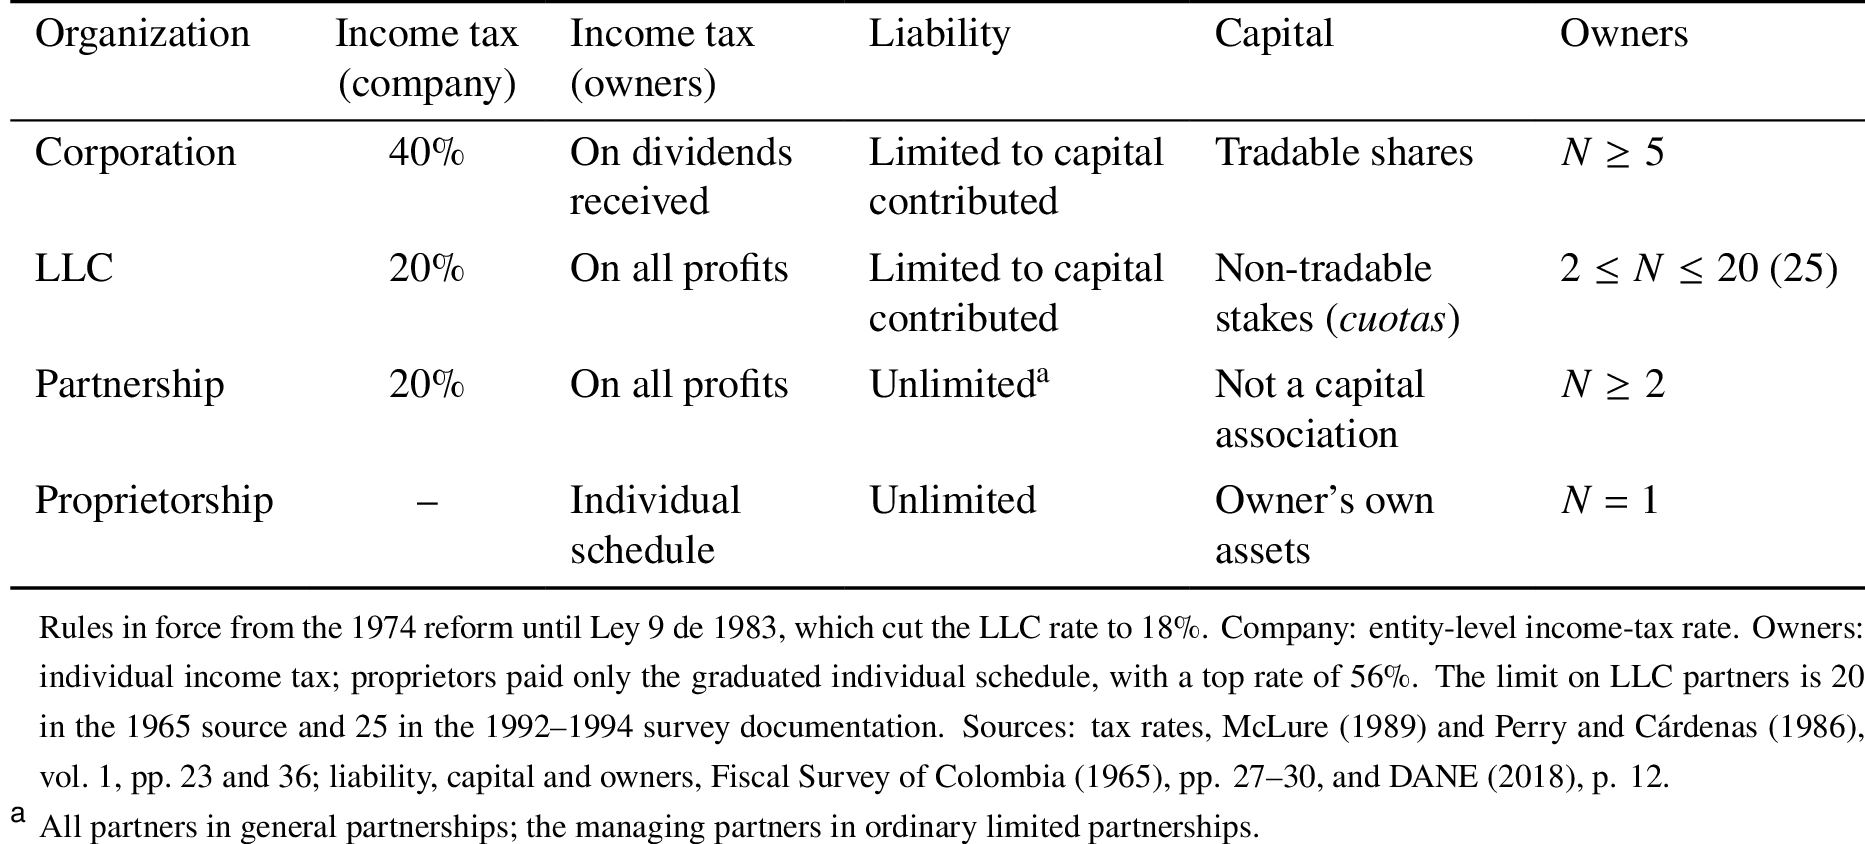
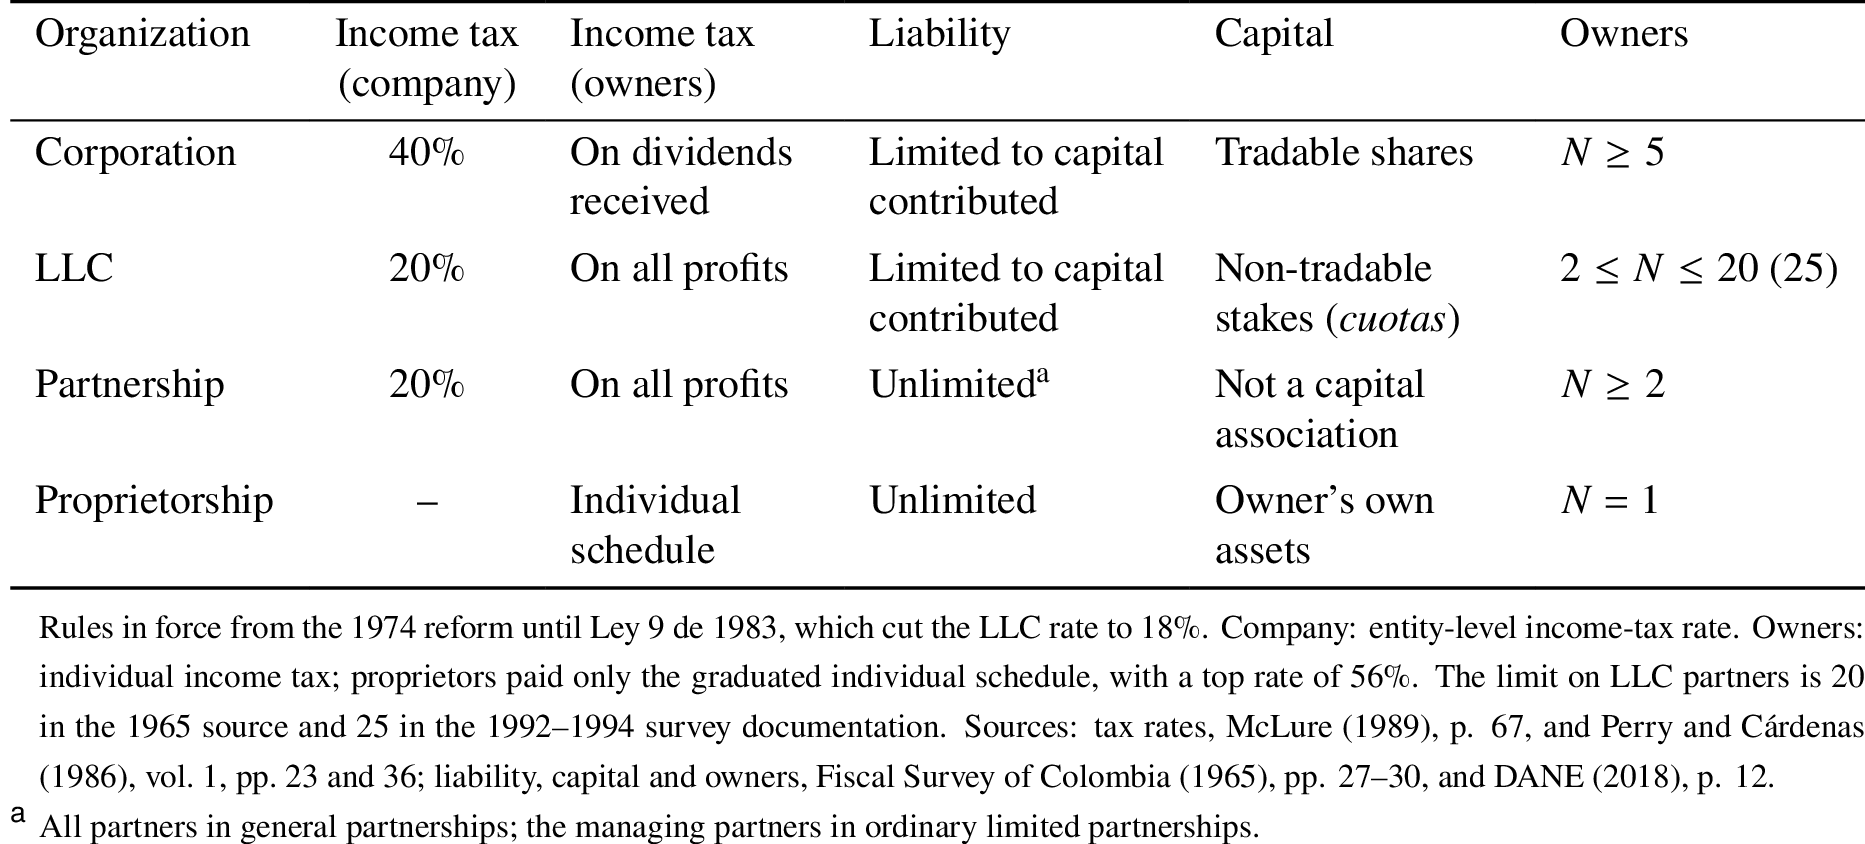
Ch. 3: McLure (1989) page cites (pp. 65, 67); ch. 4 note: 1983 reform ended the machinery/transport exemptions
Claude-Session: https://claude.ai/code/session_01J1kAGaZrPMkk8SfQCaxMNX

Changed region(s): [[0.0311, 0.8318, 1.0, 0.955]]

diff --git a/Research-log/log.md b/Research-log/log.md
@@ -1077,3 +1077,5 @@ Best points: ELVIS (cube, moment set A) $\lambda=5.427\times10^{-7},(\delta_0,\d
 Hans's observation: the two food industries (311, 312) are exempt from the sales tax, so the credit on purchases gives them no reward to overreport, and the test does not reject in either. The count is now reported as 9 of the 18 liable industries (all nine rejections are liable industries) and 0 of the 2 exempt ones, instead of 9 of 20. Framing agreed: "consistent with the incentive", not "the test works" — a non-rejection is inconclusive on its own, and the income tax still rewarded overreporting in exempt industries (ch. 7's $u^{IT}$; small post-reform rise there).
 
 Exempt set checked in the data (ch. 3 sample, `Code/Thesis/ch03-sample.R`): share of firm-years with zero sales tax on sales is 92.0 percent in 311 and 88.1 percent in 312 (median rate 0), but 3.3 percent in 382 and 6.2 percent in 384 (medians 9.1 and 9.4 percent). An older ch. 4 draft note listed 382 and 384 as exempt (from the 1974 zero-rating of agricultural machinery and transport equipment, Perry and Orozco de Triana 1990, p. 181); that covered products, not these industries. Exempt = 311, 312, matching ch. 7's `exempt_ind`. Updated: thesis and JMP abstracts, ch. 1 and JMP intro, ch. 4 draft notes, ch. 10 outline.
+
+Addendum (same day): McLure (1989, p. 65) — Hans checked the book — says the 1983 reform eliminated the exemptions for agricultural machinery, transportation equipment and certain other goods. So even the product-level zero-rating behind the old "382, 384 exempt" note ended with the reform; exempt = 311, 312 stands. McLure page cites added in ch. 3 (p. 65 services; p. 67 rates, double taxation, 1986 unification) and the `tbl-jo-rules` notes.
